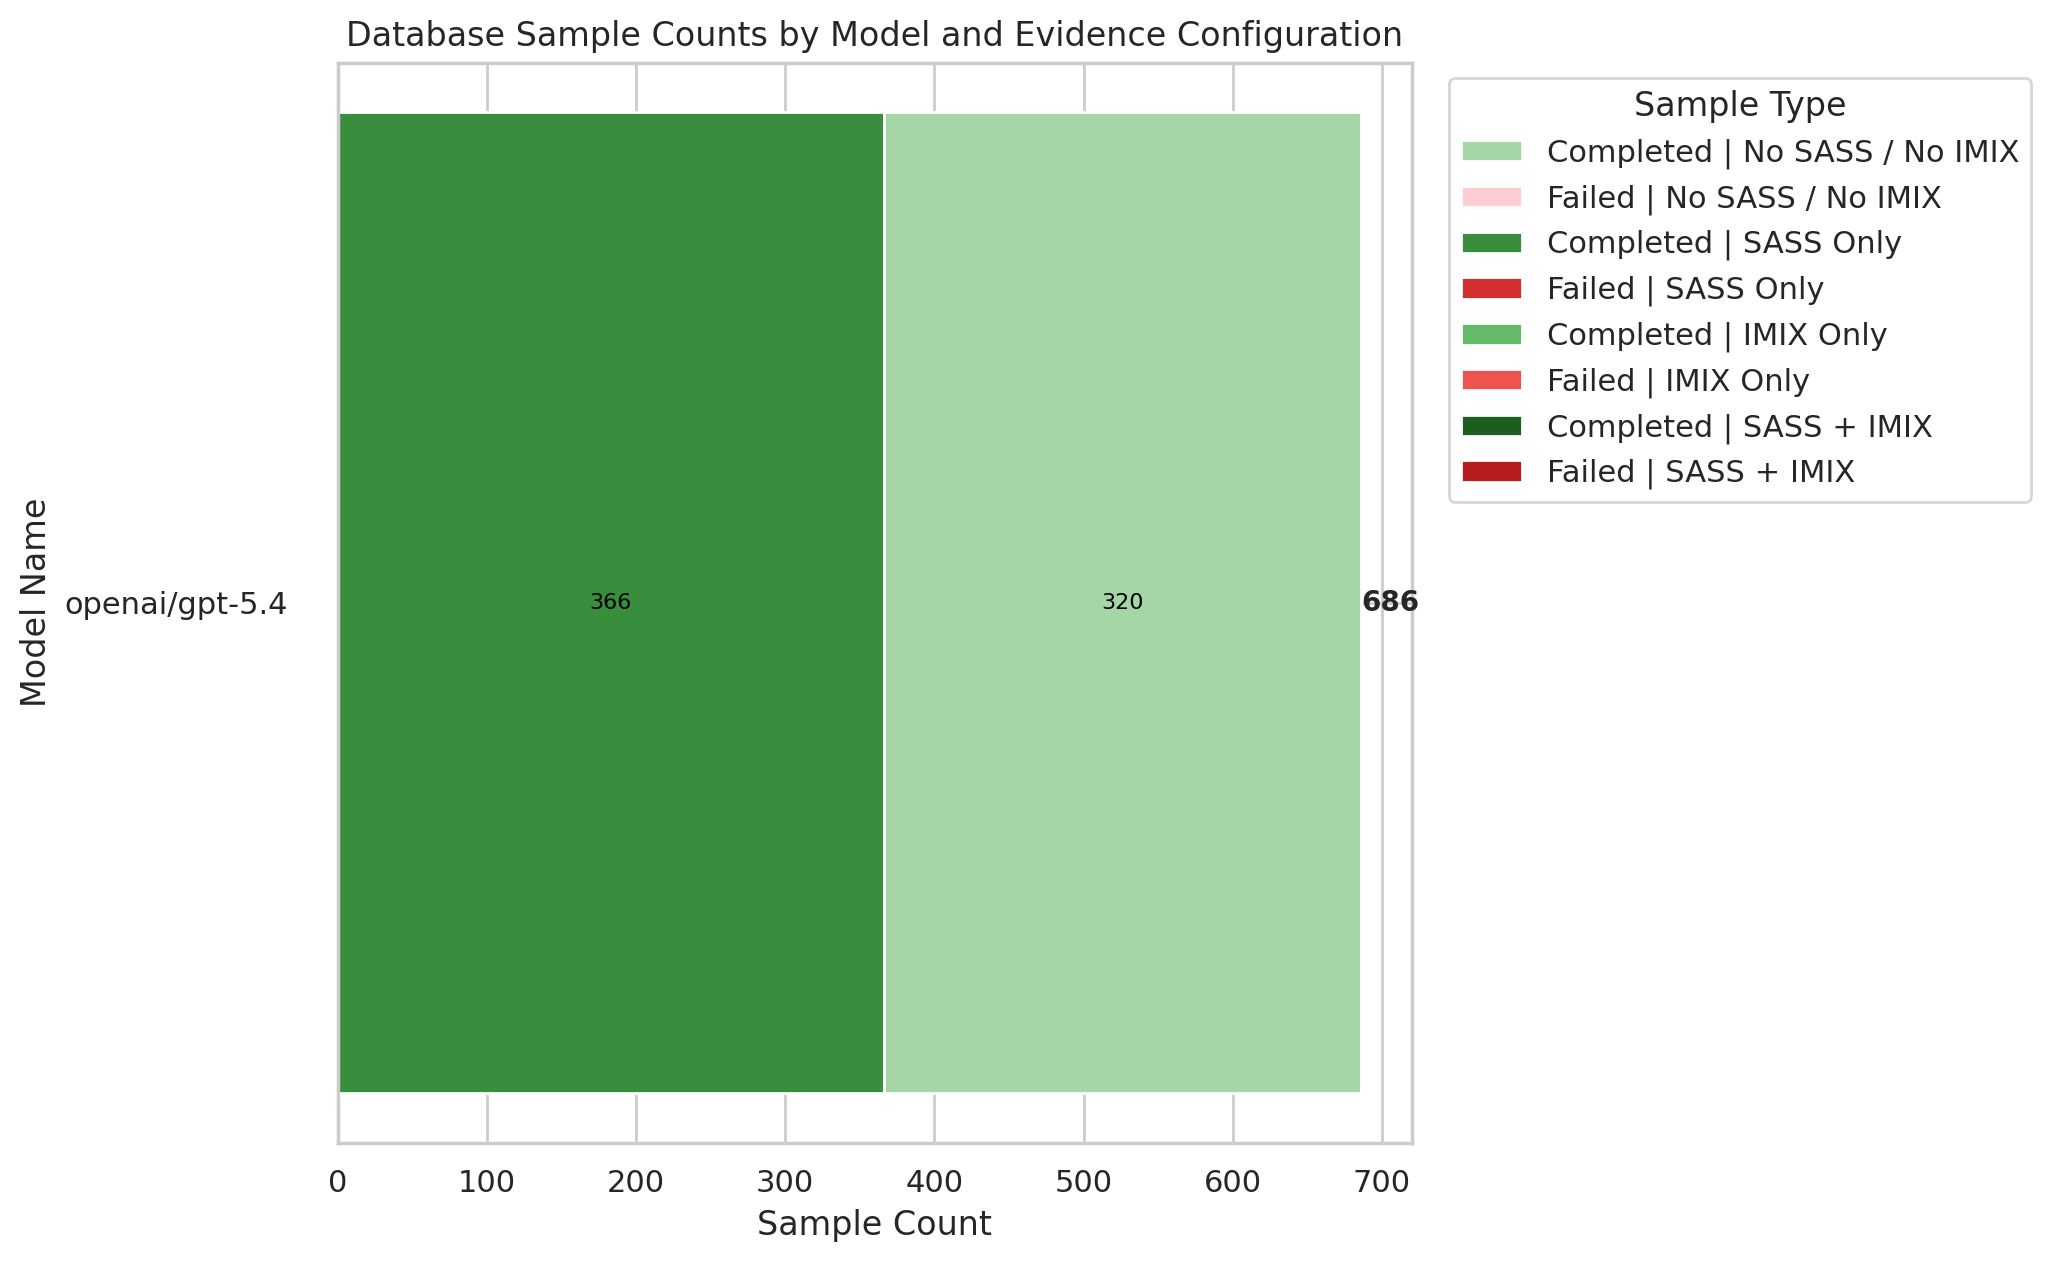
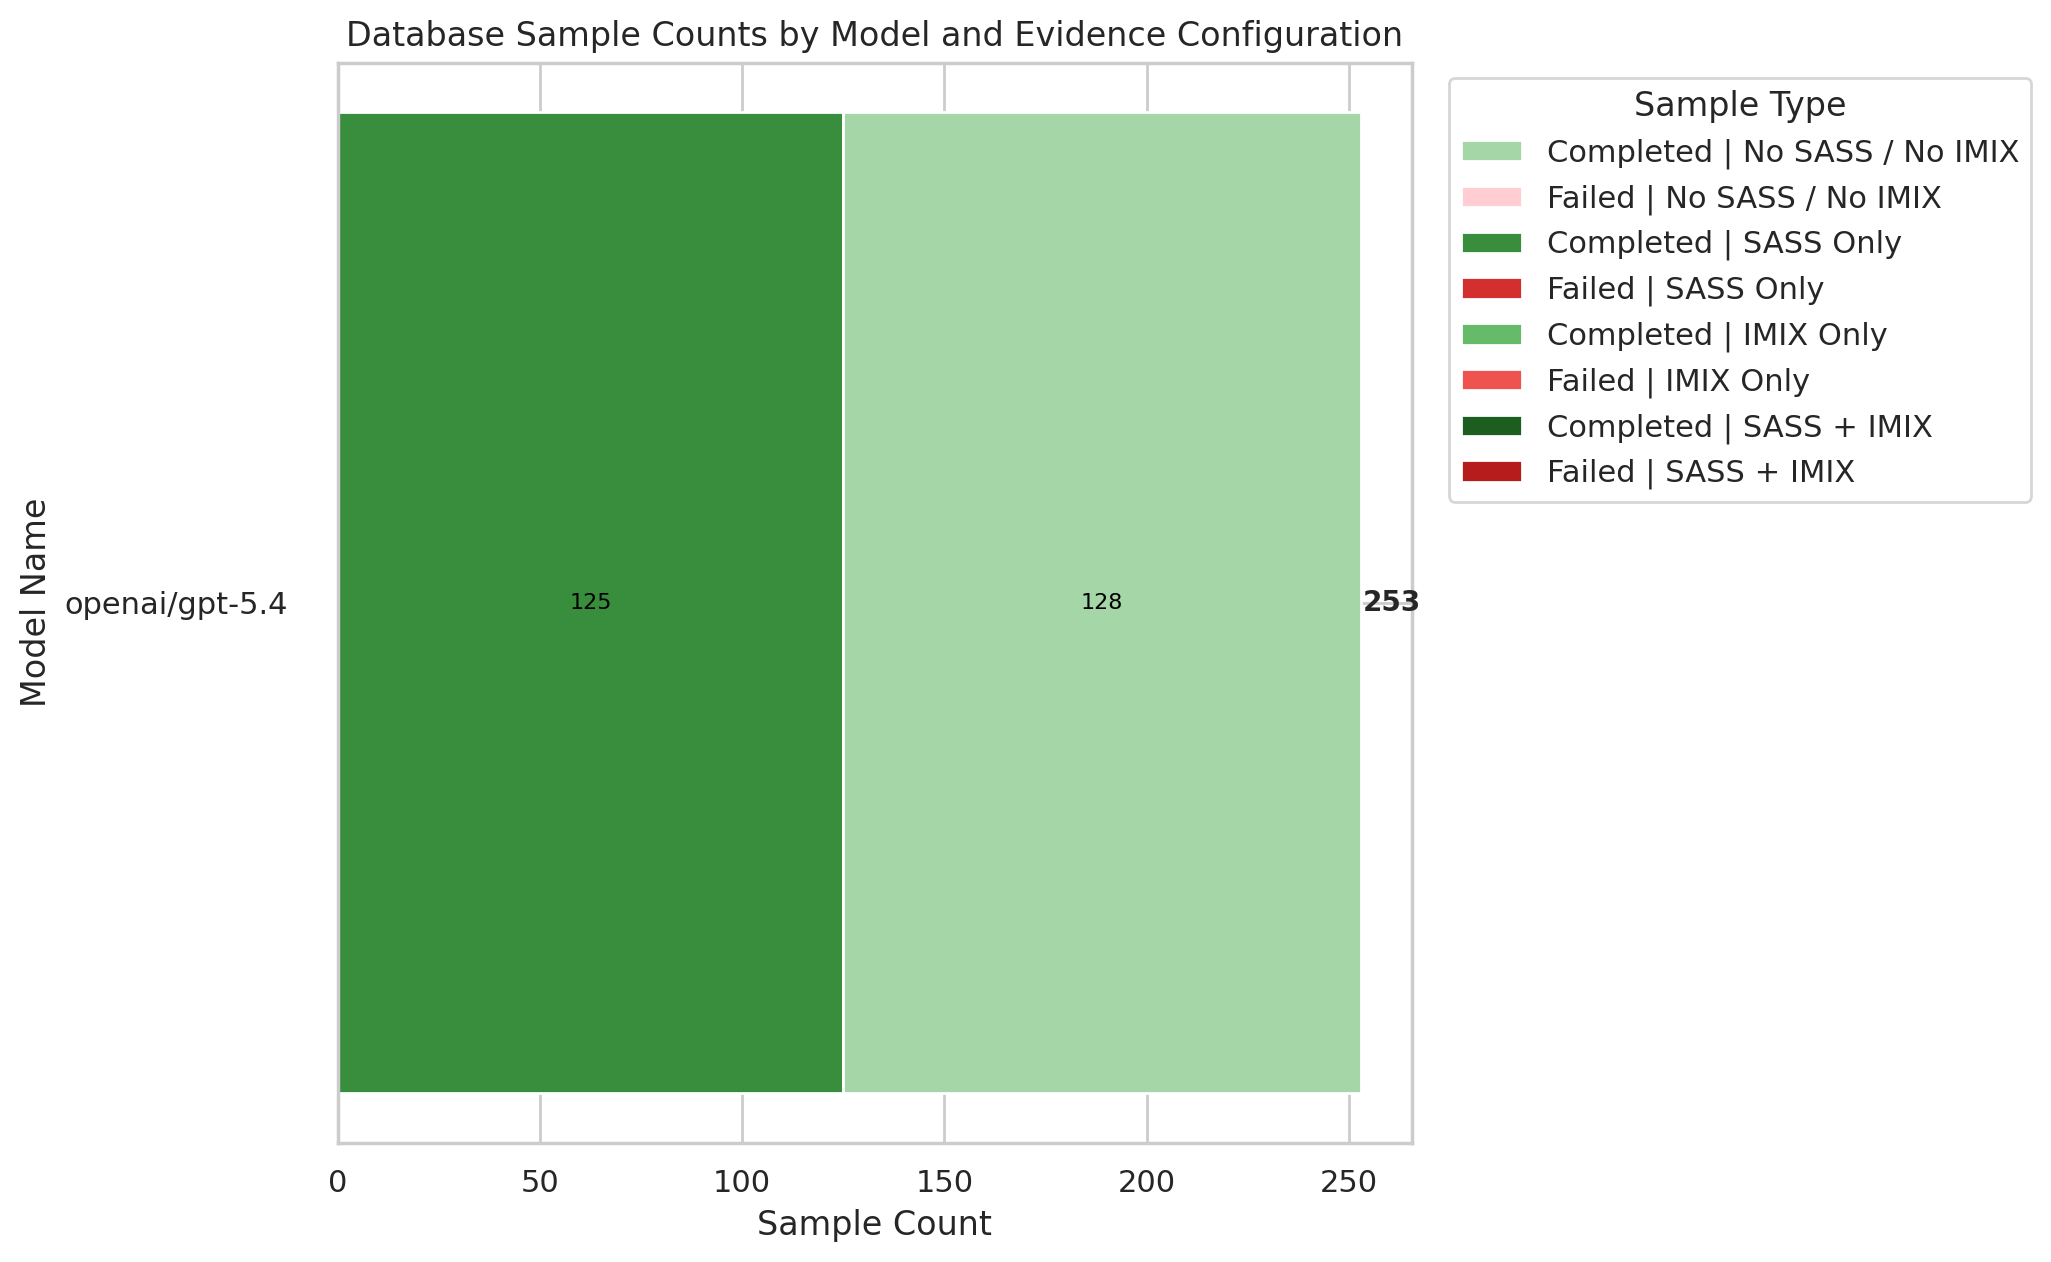
added slight half-precision verbiage to prompt

diff --git a/experiments/direct-prompting/prompts.py b/experiments/direct-prompting/prompts.py
@@ -132,6 +132,7 @@ class SystemPromptBuilder:
         lines.extend([
             "### Counting Compiler-Generated FP16 and FP32 Instructions",
             "- Count compiler-generated arithmetic instructions if they execute, even when they originate from helper routines, lowered math-library calls, constant materialization, or implementation details rather than explicit source-level arithmetic.",
+            "- The compiler may insert packed FP16 instructions such as HFMA2 / HFMA2_32I for constant or zero materialization on some GPU architectures instead of using MOV-family instructions. If these execute, count them as real FP16 arithmetic in the final estimate: each HFMA2 contributes 4 FP16 FLOPs, but this behavior is architecture- and ptxas-dependent, so infer it conservatively when SASS is unavailable.",
             "- Packed FP16 fused multiply-add instructions contribute multiple FP16 FLOPs per instruction. Lower-precision helper instructions used to implement higher-precision or transcendental operations still count toward the precision at which they execute.",
             "- When SASS is available, count the arithmetic instructions on the taken execution path and scale by how many times that path executes. When SASS is not available, acknowledge that source-only counting may under-estimate lowered helper work and provide the best defensible estimate from the source.",
             "- Compilers may also eliminate common subexpressions or reuse previously computed values, which can reduce the true FLOP count. Use the source and SASS together to avoid over-counting optimized-away work.",

diff --git a/experiments/direct-prompting/visualization-output/table1_model_percent_diff_summary.tex b/experiments/direct-prompting/visualization-output/table1_model_percent_diff_summary.tex
@@ -6,8 +6,8 @@
 \toprule
 model\_name & evidence\_configuration & mean\_percent\_diff & median\_percent\_diff & completed\_samples & failed\_samples \\
 \midrule
-openai/gpt-5.4 & No SASS / No IMIX & 914.1224 & 29.236 & 320 & 0 \\
-openai/gpt-5.4 & SASS Only & 279.4032 & 28.4644 & 366 & 0 \\
+openai/gpt-5.4 & No SASS / No IMIX & 317.6231 & 32.3904 & 128 & 0 \\
+openai/gpt-5.4 & SASS Only & 308.2765 & 29.8504 & 125 & 0 \\
 \bottomrule
 \end{tabular}
 \end{table}
